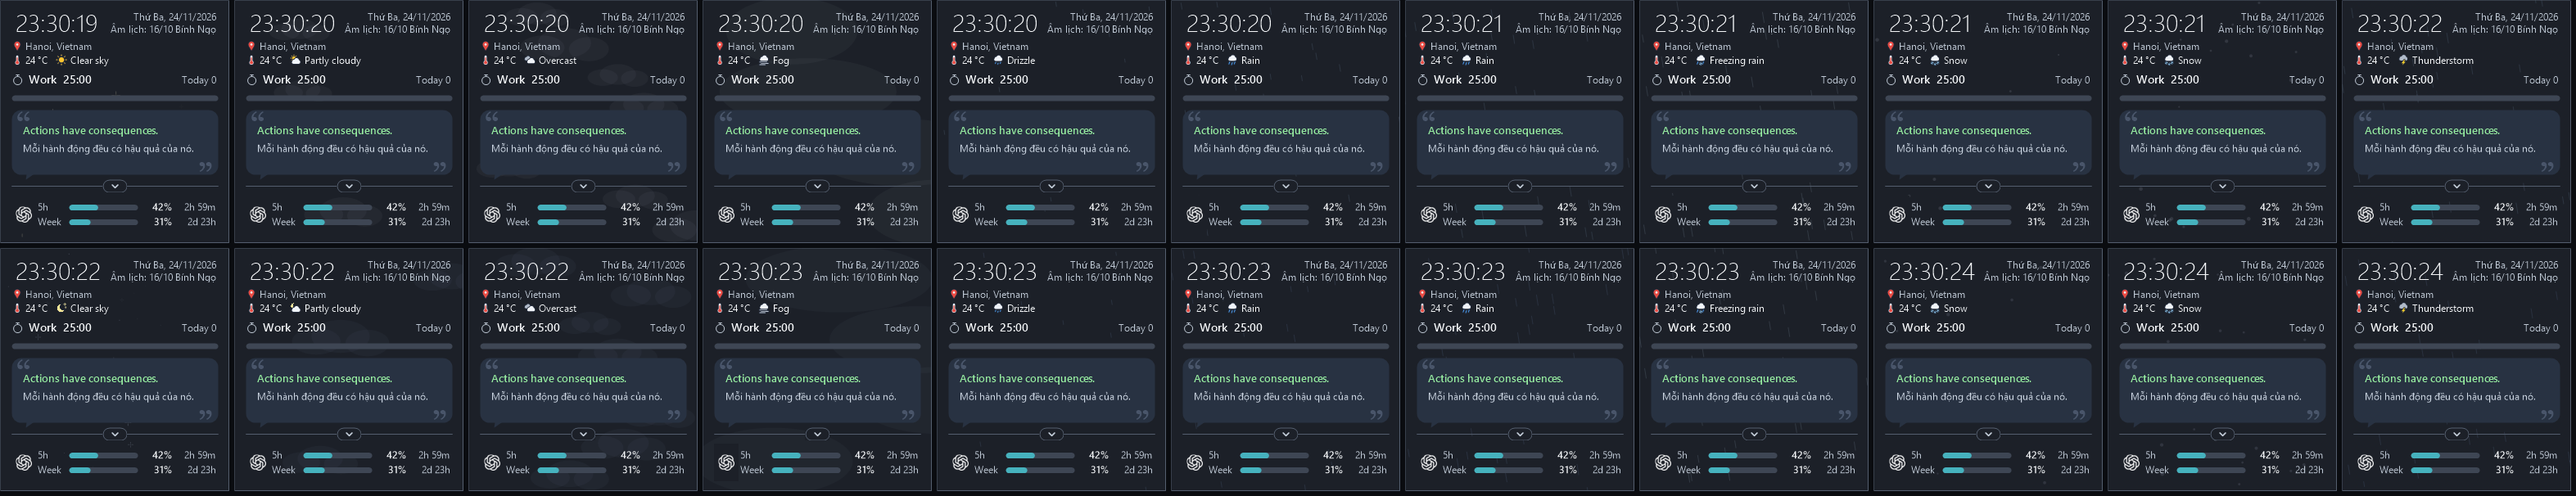
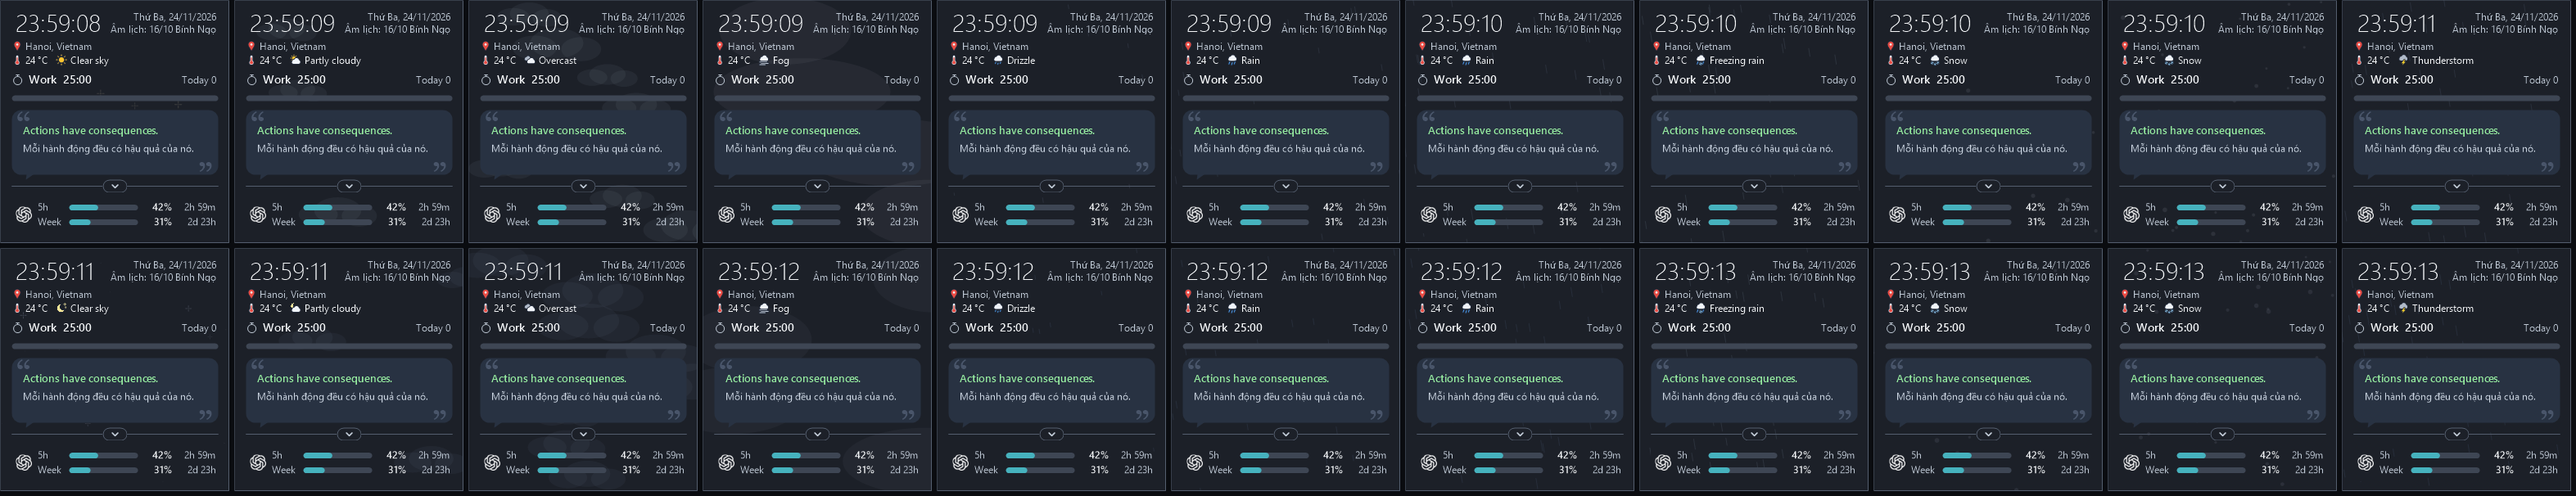
fix(weather): keep the text contrast at 4.5:1 or more when particles overlap
Streaks and flakes are drawn fainter so three stacked still keep the secondary
text above 4.5:1; the contrast test now samples every code at both intensities.

diff --git a/Weather/WeatherEffectField.cs b/Weather/WeatherEffectField.cs
@@ -24,7 +24,7 @@ internal sealed class WeatherEffectField : IDisposable
     public const int PeakAlpha = 48;
 
     /// <summary>The opacity of a streak or a flake, which can cross another one: two of them stacked still keep the text readable (the contrast test measures it).</summary>
-    public const int CrossingAlpha = 33;
+    public const int CrossingAlpha = 21;
 
     /// <summary>The opacity of the whole-widget flash of a thunderstorm at its brightest.</summary>
     public const int FlashAlpha = 20;
@@ -207,7 +207,7 @@ internal sealed class WeatherEffectField : IDisposable
                     break;
                 case WeatherEffectKind.Snow:
                     p.Vy = (12 + 7 * (int)effect.Level) * (0.7f + Random01() * 0.6f);
-                    p.Size = 1.1f + Random01() * 1.3f;
+                    p.Size = 1.4f + Random01() * 1.5f;
                     p.Rate = 0.6f + Random01() * 0.9f; // the sway frequency
                     p.Vx = 3 + Random01() * 5; // the sway amplitude
                     break;

diff --git a/PomoQuote.Tests/WeatherEffectTests.cs b/PomoQuote.Tests/WeatherEffectTests.cs
@@ -459,7 +459,7 @@ public sealed class WeatherEffectTests : IDisposable
             foreach (var intensity in Enum.GetValues<WeatherEffectIntensity>())
             {
                 field.Set(effect, intensity, instant: true);
-                for (var frame = 0; frame < 24; frame++)
+                for (var frame = 0; frame < 40; frame++)
                 {
                     field.Advance(3.1f); // 124 seconds per effect, so a thunderstorm flash lands in some frames
                     graphics.Clear(Color.FromArgb(28, 32, 40));
